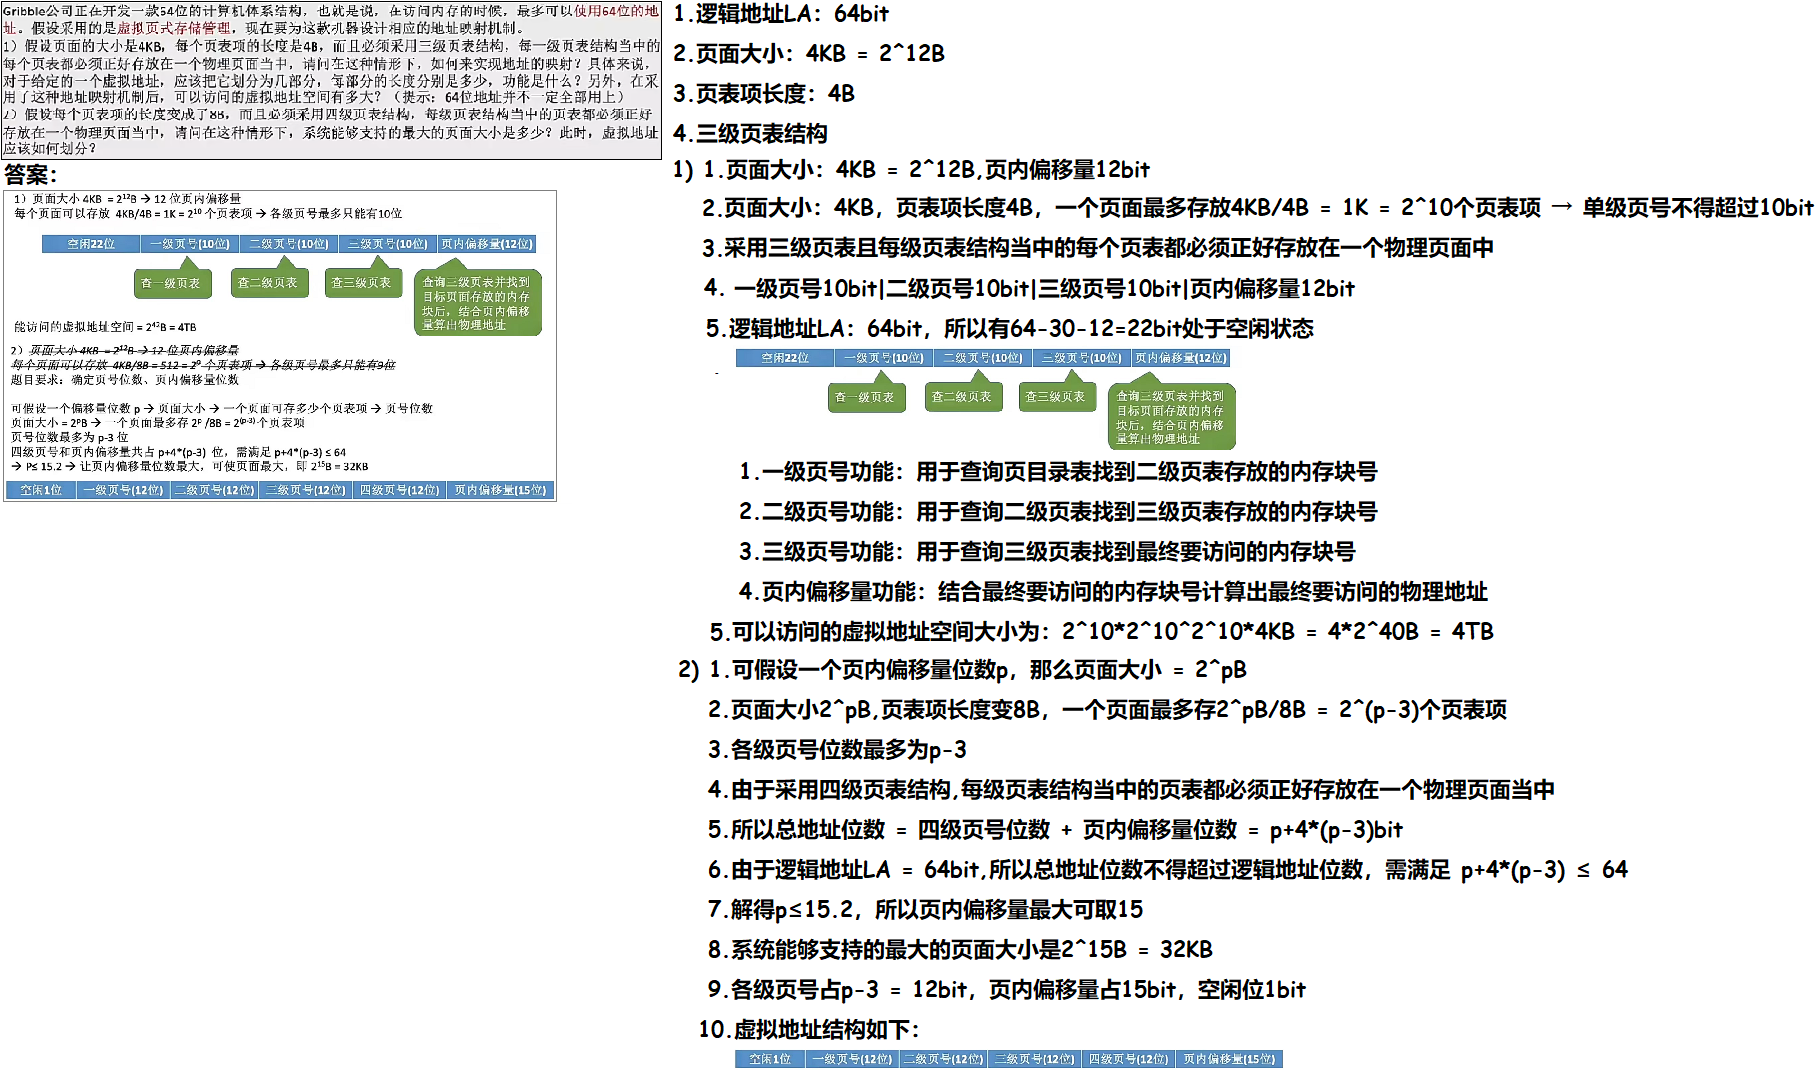
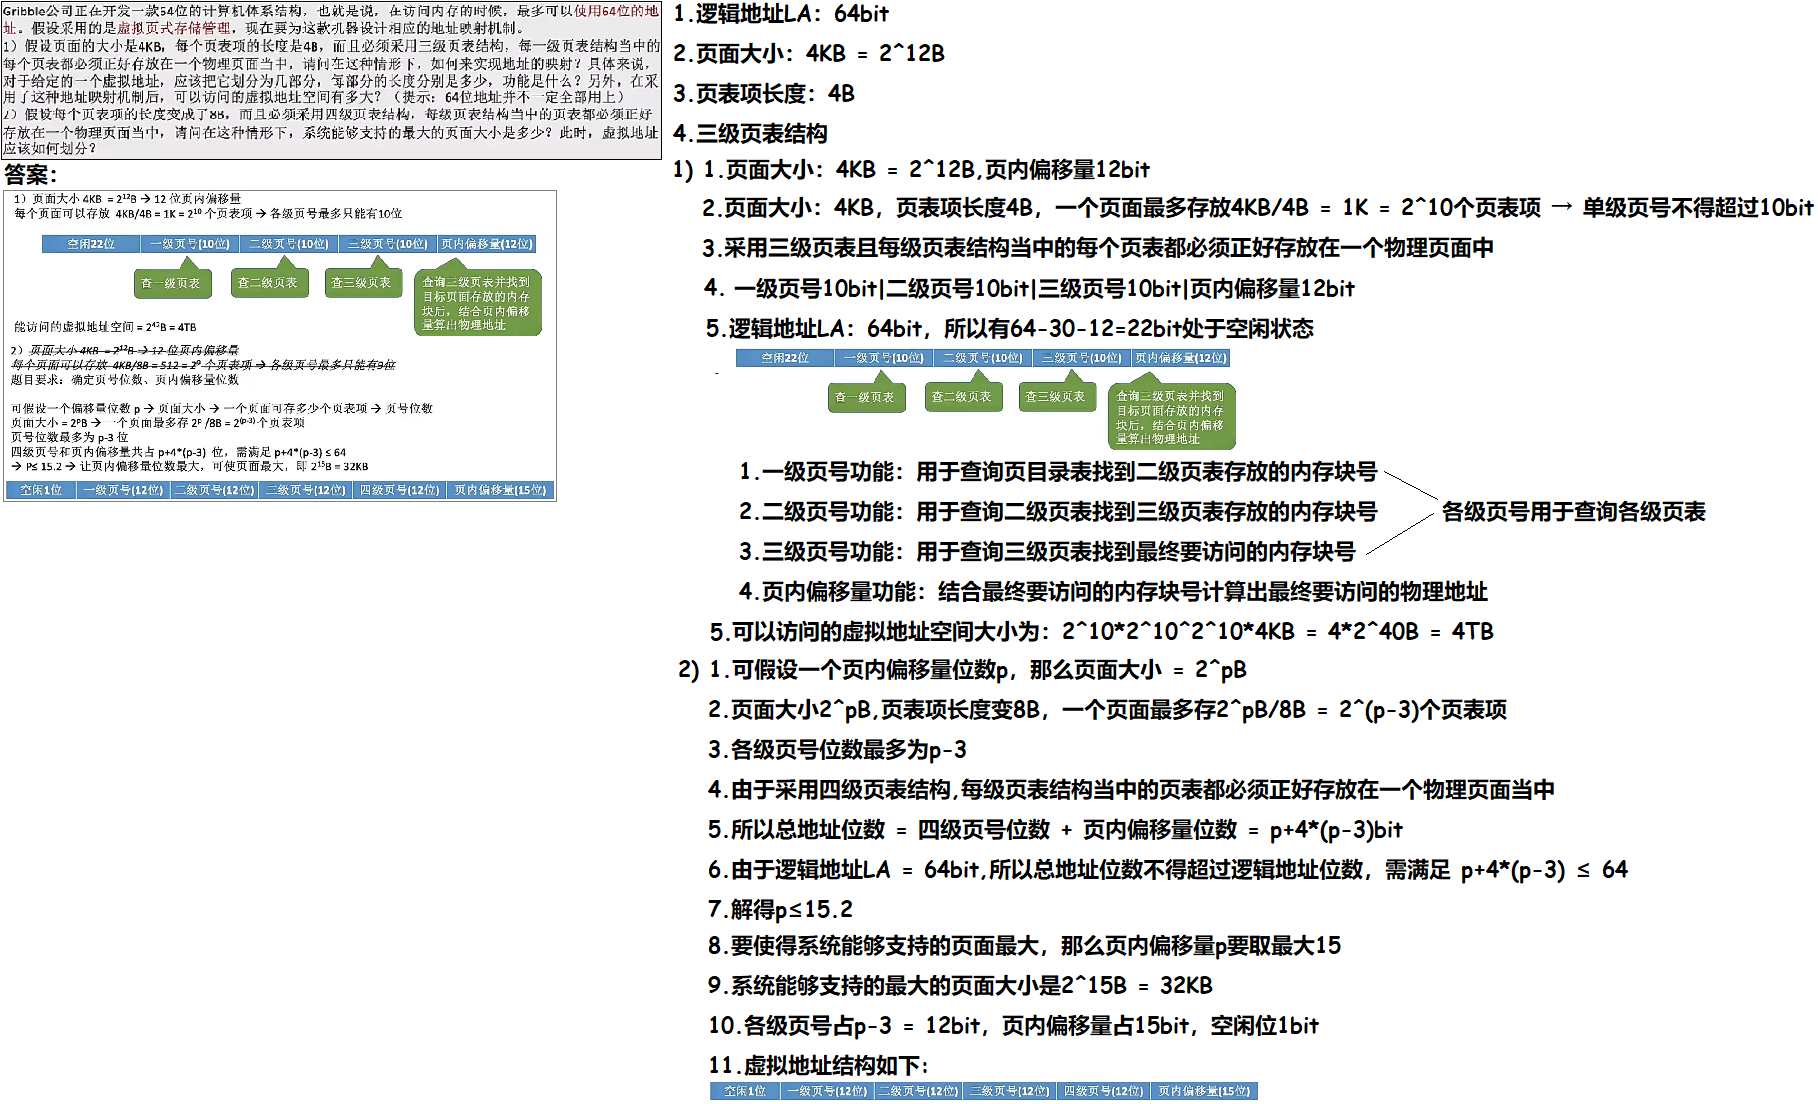
240819

Changed region(s): [[0.0, 0.0, 1.0, 1.0]]

diff --git a/01 初试/01 OS/01 题集/01 820 62 = 9 + 5 +11 +21 +16/04 21 21 = 8 + 13/02 大题 13/01 简答题 13/04 简答题04 多级页表 地址变换图 240818 5/02 24408 4/01 3.2综合14/02 Doc.md b/01 初试/01 OS/01 题集/01 820 62 = 9 + 5 +11 +21 +16/04 21 21 = 8 + 13/02 大题 13/01 简答题 13/04 简答题04 多级页表 地址变换图 240818 5/02 24408 4/01 3.2综合14/02 Doc.md
@@ -6,7 +6,9 @@
 
 # 02 答案
 
-<img src="https://cvp.oss-cn-shanghai.aliyuncs.com/202408191049882.png" alt="image-20240819104944752" style="zoom:50%;" />
+<img src="https://cvp.oss-cn-shanghai.aliyuncs.com/202408191425050.png" alt="image-20240819142430986" style="zoom:50%;" />
+
+
 
 # 03 视频
 
